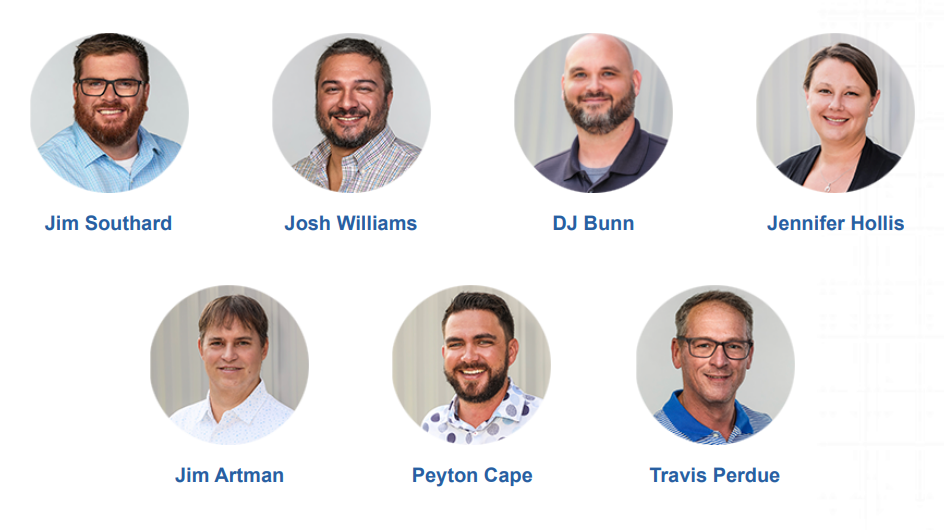
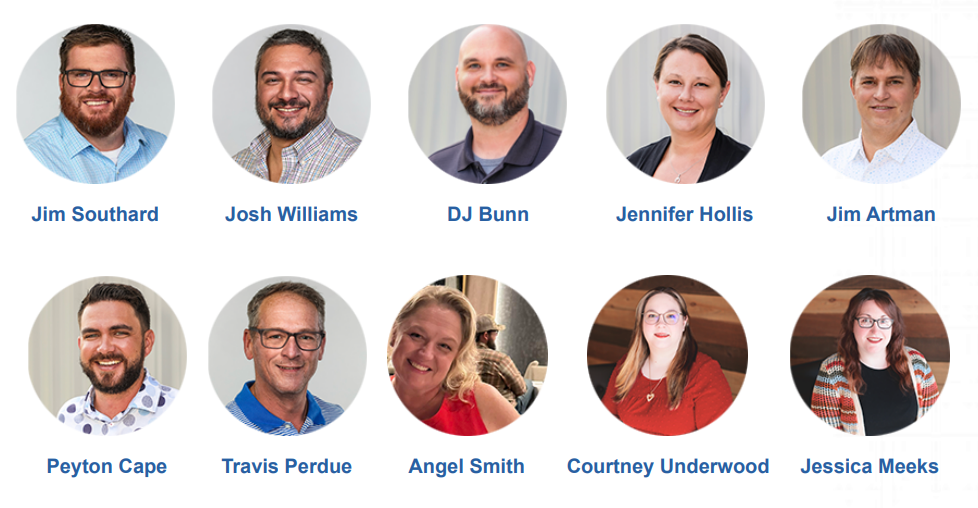
Autodesk cron update

diff --git a/Controllers/FrontendController.js b/Controllers/FrontendController.js
@@ -1370,7 +1370,7 @@ async QuotationPDFhtml(quotation_id,quotation_no,createdAt,phone_number,material
           <table width="100%" cellpadding="0" cellspacing="0" style="table-layout: fixed;">
                <tr>
                   <td colspan="2">
-                       <h4 style="color:#fff; font-size:16px; line-height: 1; font-weight: 600; margin-bottom: 6px; margin-top: 6px;">Quote Number #${quotation_no}</h4>
+                       <h4 style="color:#fff; font-size:16px; line-height: 1; font-weight: 600; margin-bottom: 6px; margin-top: 6px;">Quote Number #${quotation_no.slice(-6)}</h4>
                        <p style="margin-top: 5px; margin-bottom: 0px;color:#fff">Date: ${moment(createdAt).format('MM/DD/YY')} </p>
                   </td>
                </tr>
@@ -1496,7 +1496,7 @@ ${rooms.map((room, index) => `
               <table width="100%" cellpadding="0" cellspacing="0" style="table-layout: fixed;">
                    <tr>
                       <td colspan="2">
-                           <h4 style="color:#fff; font-size:16px; line-height: 1; font-weight: 600; margin-bottom: 6px; margin-top: 6px;">Quote Number #${quotation_no}</h4>
+                           <h4 style="color:#fff; font-size:16px; line-height: 1; font-weight: 600; margin-bottom: 6px; margin-top: 6px;">Quote Number #${quotation_no.slice(-6)}</h4>
                            <p style="margin-top: 5px; margin-bottom: 0px;color:#fff">Date: ${moment(createdAt).format('MM/DD/YY')} </p>
                       </td>
                    </tr>
@@ -1578,7 +1578,7 @@ ${room.hasUrinalScreens ? `
           <table width="100%" cellpadding="0" cellspacing="0" style="table-layout: fixed;">
                <tr>
                   <td colspan="2">
-                       <h4 style="color:#fff; font-size:16px; line-height: 1; font-weight: 600; margin-bottom: 6px; margin-top: 6px;">Quote Number #${quotation_no}</h4>
+                       <h4 style="color:#fff; font-size:16px; line-height: 1; font-weight: 600; margin-bottom: 6px; margin-top: 6px;">Quote Number #${quotation_no.slice(-6)}</h4>
                        <p style="margin-top: 5px; margin-bottom: 0px;color:#fff">Date: ${moment(createdAt).format('MM/DD/YY')} </p>
                   </td>
                </tr>
@@ -1711,30 +1711,22 @@ ${room.hasUrinalScreens ? `
                                   </div>
                               </td>
                                
-                              <!-- <td style="width: 15%;">
+                              <td style="width: 15%;">
                                   <div>
                                   <a href="mailto:cs@restroomstallsandall.com?subject=PDF Quote #${quotation_no}" style="text-decoration: none;display: inline-block;color:#285fa1;">
-                                      <img src="${process.env.URI}/uploads/images/Megan_Schroeder.png" alt="pic" style="margin-bottom: 10px;width:80px;height:80px;"/>
-                                      <h4 style="margin-top: 0px; color:#285fa1; margin-bottom: 5px;font-size:10px;white-space: nowrap;">Megan Watkins
+                                      <img src="${process.env.URI}/uploads/images/Jim_Artman.png" alt="pic" style="margin-bottom: 10px;width:80px;height:80px;"/>
+                                      <h4 style="margin-top: 0px; color:#285fa1; margin-bottom: 5px;font-size:10px;white-space: nowrap;">Jim Artman
                                       </h4>
                                   </a>
                                   </div>
-                              </td> -->
+                              </td>
                           </tr>
                           <tr>
                               <td style="width:100%;" colspan="6">
                                  <table width="100%" cellpadding="0" cellspacing="10" style="text-align: center; margin:0 auto;border:none;">
                                   <tr>
-                                   <td style="width:6.5%"></td> 
+                                   
                                   <td style="width: 15%;">
-                                    <div>
-                                    <a href="mailto:cs@restroomstallsandall.com?subject=PDF Quote #${quotation_no}" style="text-decoration: none;display: inline-block;color:#285fa1;">
-                                        <img src="${process.env.URI}/uploads/images/Jim_Artman.png" alt="pic" style="margin-bottom: 10px;width:80px;height:80px;"/>
-                                        <h4 style="margin-top: 0px; color:#285fa1; margin-bottom: 5px;font-size:10px;white-space: nowrap;">Jim Artman</h4>
-                                        </a>
-                                    </div>
-                                </td>
-                                <td style="width: 15%;">
                                   <div>
                                   <a href="mailto:cs@restroomstallsandall.com?subject=PDF Quote #${quotation_no}" style="text-decoration: none;display: inline-block;color:#285fa1;">
                                       <img src="${process.env.URI}/uploads/images/Peyton_Cape.png" alt="pic" style="margin-bottom: 10px;width:80px;height:80px;"/>
@@ -1742,36 +1734,44 @@ ${room.hasUrinalScreens ? `
                                       </h4>
                                       </a>
                                   </div>
+                                </td>
+                                <td style="width: 15%;">
+                                <div>
+                                <a href="mailto:cs@restroomstallsandall.com?subject=PDF Quote #${quotation_no}" style="text-decoration: none;display: inline-block;color:#285fa1;">
+                                    <img src="${process.env.URI}/uploads/images/Travis_Perdue.png" alt="pic" style="margin-bottom: 10px;width:80px;height:80px;"/>
+                                    <h4 style="margin-top: 0px; color:#285fa1; margin-bottom: 5px;font-size:10px;white-space: nowrap;">Travis Perdue
+                                    </h4>
+                                </a>
+                                </div>
                               </td>
-                              <!-- <td style="width: 15%;">
-                                  <div>
-                                  <a href="mailto:cs@restroomstallsandall.com?subject=PDF Quote #${quotation_no}" style="text-decoration: none;display: inline-block;color:#285fa1;">
-                                      <img src="${process.env.URI}/uploads/images/Rob_Watkins.png" alt="pic" style="margin-bottom: 10px;width:80px;height:80px;"/>
-                                      <h4 style="margin-top: 0px; color:#285fa1; margin-bottom: 5px;font-size:10px;white-space: nowrap;">Rob Watkins
-                                      </h4>
-                                  </a>
-                                  </div>
-                              </td> -->
-                     
                                     <td style="width: 15%;">
                                         <div>
                                         <a href="mailto:cs@restroomstallsandall.com?subject=PDF Quote #${quotation_no}" style="text-decoration: none;display: inline-block;color:#285fa1;">
-                                            <img src="${process.env.URI}/uploads/images/Travis_Perdue.png" alt="pic" style="margin-bottom: 10px;width:80px;height:80px;"/>
-                                            <h4 style="margin-top: 0px; color:#285fa1; margin-bottom: 5px;font-size:10px;white-space: nowrap;">Travis Perdue
+                                            <img src="${process.env.URI}/uploads/images/Angel_Smith.png" alt="pic" style="margin-bottom: 10px;width:80px;height:80px; border-redius:50%; overflow:hidden;"/>
+                                            <h4 style="margin-top: 0px; color:#285fa1; margin-bottom: 5px;font-size:10px;white-space: nowrap;">Angel Smith
                                             </h4>
                                         </a>
                                         </div>
                                     </td>
-                                   <!-- <td style="width: 15%;">
+                                   <td style="width: 15%;">
                                         <div>
                                         <a href="mailto:cs@restroomstallsandall.com?subject=PDF Quote #${quotation_no}" style="text-decoration: none;display: inline-block;color:#285fa1;">
-                                            <img src="${process.env.URI}/uploads/images/CJ_Cooper.png" alt="pic" style="margin-bottom: 10px;width:80px;height:80px;"/>
-                                            <h4 style="margin-top: 0px; color:#285fa1; margin-bottom: 5px;font-size:10px;white-space: nowrap;">CJ Cooper
+                                            <img src="${process.env.URI}/uploads/images/Courtney_Underwood.png" alt="pic" style="margin-bottom: 10px;width:80px;height:80px;"/>
+                                            <h4 style="margin-top: 0px; color:#285fa1; margin-bottom: 5px;font-size:10px;white-space: nowrap;">Courtney Underwood
                                             </h4>
                                         </a>
                                         </div>
-                                    </td> -->
-                                     <td style="width:6.5%"></td> 
+                                    </td>
+                                    <td style="width: 15%;">
+                                    <div>
+                                    <a href="mailto:cs@restroomstallsandall.com?subject=PDF Quote #${quotation_no}" style="text-decoration: none;display: inline-block;color:#285fa1;">
+                                        <img src="${process.env.URI}/uploads/images/Jessica_Meeks.png" alt="pic" style="margin-bottom: 10px;width:80px;height:80px;"/>
+                                        <h4 style="margin-top: 0px; color:#285fa1; margin-bottom: 5px;font-size:10px;white-space: nowrap;">Jessica Meeks
+                                        </h4>
+                                    </a>
+                                    </div>
+                                </td>
+                                    
                                   </tr>
                                  </table>
                               </td>     
@@ -2128,32 +2128,28 @@ async OrderPDFhtml(quotation_no,order_id,amount,phone_number,createdAt,materials
                                   </a>
                                   </div>
                               </td>
-                               
+                              <td style="width: 15%;">
+                              <div>
+                              <a href="mailto:cs@restroomstallsandall.com?subject=PDF Order #${order_id}" style="text-decoration: none;display: inline-block;color:#285fa1;">
+                                  <img src="${process.env.URI}/uploads/images/Jim_Artman.png" alt="pic" style="margin-bottom: 10px;width:80px;height:80px;"/>
+                                  <h4 style="margin-top: 0px; color:#285fa1; margin-bottom: 5px;font-size:10px;white-space: nowrap;">Jim Artman</h4>
+                              </a>
+                              </div>
+                          </td>
                           </tr>
                           <tr>
                               <td style="width:100%;" colspan="6">
                                  <table width="100%" cellpadding="0" cellspacing="10" style="text-align: center; margin:0 auto;border:none;">
                                   <tr>
-                                  <td style="width:6.5%"></td> 
                                     <td style="width: 15%;">
                                       <div>
                                       <a href="mailto:cs@restroomstallsandall.com?subject=PDF Order #${order_id}" style="text-decoration: none;display: inline-block;color:#285fa1;">
-                                          <img src="${process.env.URI}/uploads/images/Jim_Artman.png" alt="pic" style="margin-bottom: 10px;width:80px;height:80px;"/>
-                                          <h4 style="margin-top: 0px; color:#285fa1; margin-bottom: 5px;font-size:10px;white-space: nowrap;">Jim Artman</h4>
+                                          <img src="${process.env.URI}/uploads/images/Peyton_Cape.png" alt="pic" style="margin-bottom: 10px;width:80px;height:80px;"/>
+                                          <h4 style="margin-top: 0px; color:#285fa1; margin-bottom: 5px;font-size:10px;white-space: nowrap;">Peyton Cape</h4>
                                           </a>
                                       </div>
                                     </td>
                                     <td style="width: 15%;">
-                                    <div>
-                                    <a href="mailto:cs@restroomstallsandall.com?subject=PDF Order #${order_id}" style="text-decoration: none;display: inline-block;color:#285fa1;">
-                                        <img src="${process.env.URI}/uploads/images/Peyton_Cape.png" alt="pic" style="margin-bottom: 10px;width:80px;height:80px;"/>
-                                        <h4 style="margin-top: 0px; color:#285fa1; margin-bottom: 5px;font-size:10px;white-space: nowrap;">Peyton Cape
-                                        </h4>
-                                        </a>
-                                    </div>
-                                </td>
-                    
-                                <td style="width: 15%;">
                                     <div>
                                     <a href="mailto:cs@restroomstallsandall.com?subject=PDF Order #${order_id}" style="text-decoration: none;display: inline-block;color:#285fa1;">
                                         <img src="${process.env.URI}/uploads/images/Travis_Perdue.png" alt="pic" style="margin-bottom: 10px;width:80px;height:80px;"/>
@@ -2162,7 +2158,34 @@ async OrderPDFhtml(quotation_no,order_id,amount,phone_number,createdAt,materials
                                     </a>
                                     </div>
                                 </td>
-                                <td style="width:6.5%"></td> 
+                    
+                                <td style="width: 15%;">
+                                    <div>
+                                    <a href="mailto:cs@restroomstallsandall.com?subject=PDF Order #${order_id}" style="text-decoration: none;display: inline-block;color:#285fa1;">
+                                        <img src="${process.env.URI}/uploads/images/Angel_Smith.png" alt="pic" style="margin-bottom: 10px;width:80px;height:80px;"/>
+                                        <h4 style="margin-top: 0px; color:#285fa1; margin-bottom: 5px;font-size:10px;white-space: nowrap;">Angel Smith
+                                        </h4>
+                                    </a>
+                                    </div>
+                                </td>
+                                <td style="width: 15%;">
+                                <div>
+                                <a href="mailto:cs@restroomstallsandall.com?subject=PDF Order #${order_id}" style="text-decoration: none;display: inline-block;color:#285fa1;">
+                                    <img src="${process.env.URI}/uploads/images/Courtney_Underwood.png" alt="pic" style="margin-bottom: 10px;width:80px;height:80px;"/>
+                                    <h4 style="margin-top: 0px; color:#285fa1; margin-bottom: 5px;font-size:10px;white-space: nowrap;">Courtney Underwood
+                                    </h4>
+                                </a>
+                                </div>
+                            </td>
+                            <td style="width: 15%;">
+                            <div>
+                            <a href="mailto:cs@restroomstallsandall.com?subject=PDF Order #${order_id}" style="text-decoration: none;display: inline-block;color:#285fa1;">
+                                <img src="${process.env.URI}/uploads/images/Jessica_Meeks.png" alt="pic" style="margin-bottom: 10px;width:80px;height:80px;"/>
+                                <h4 style="margin-top: 0px; color:#285fa1; margin-bottom: 5px;font-size:10px;white-space: nowrap;">Jessica Meeks
+                                </h4>
+                            </a>
+                            </div>
+                        </td>
                                   </tr>
                                  </table>
                               </td>     

diff --git a/Crons/AutodekMailSendCron.js b/Crons/AutodekMailSendCron.js
@@ -22,7 +22,7 @@ mongoose.connect(MONGO_URI, { useNewUrlParser: true, useUnifiedTopology: true })
       try {
         // Convert last 1 day to EDT (optional, or keep UTC if API expects UTC)
         const end = moment().utc();
-        const start = moment(end).subtract(10, "hours");
+        const start = moment(end).subtract(1, "hours");
         const lastDayRange = `${start.format("YYYY-MM-DDTHH:mm:ss.SSS[Z]")}..${end.format("YYYY-MM-DDTHH:mm:ss.SSS[Z]")}`;
 
       console.log(lastDayRange);
@@ -524,13 +524,20 @@ async function calculateSmartBidScore(bid) {
 
   // Distance (assume bid.distance in miles if available)
   if (bid.location) {
-    const bidDistance = await getDistanceInMiles(bid.location.zip, process.env.SOURCE_ZIP_CODE); // example
+    let bidDistance = await getDistanceInMiles(bid.location.zip, process.env.SOURCE_ZIP_CODE); // example
+    // Round up to nearest integer
+    bidDistance = Math.ceil(bidDistance);
     const distanceArray = weights.distance;
   
-    const matchedRange = distanceArray.find(range => 
-      (range.max === null && bidDistance > range.min) ||
-      (bidDistance >= range.min && bidDistance < range.max)
+    // const matchedRange = distanceArray.find(range => 
+    //   (range.max === null && bidDistance > range.min) ||
+    //   (bidDistance >= range.min && bidDistance < range.max)
+    // );
+    const matchedRange = distanceArray.find(range =>
+      (range.max === null && bidDistance >= range.min) ||
+      (bidDistance >= range.min && bidDistance <= range.max)
     );
+    
   
     if (matchedRange) {
      // console.log("location", matchedRange.percentage);
@@ -570,7 +577,7 @@ if (demoDeadline) {
 //  console.log("diffDays:", diffDays);
 
  const matchedTimeline = weights.projectTimeline.find(t => 
-   (t.max === null && diffDays > t.min) ||
+   (t.max === null && diffDays >= t.min) ||
    (diffDays >= t.min && diffDays <= t.max)
  );
 
@@ -584,13 +591,16 @@ if (demoDeadline) {
 
   // ProjectSize
   if (bid.projectSize) {
+    // Round up project size to nearest integer
+    const roundedSize = Math.ceil(bid.projectSize);
+  
     const matchedSize = weights.projectSize.find(range => 
-      (range.max === null && bid.projectSize > range.min) ||
-      (bid.projectSize >= range.min && bid.projectSize <= range.max)
+      (range.max === null && roundedSize >= range.min) ||          // last range
+      (roundedSize >= range.min && roundedSize <= range.max)      // other ranges
     );
   
     if (matchedSize) {
-     // console.log("project size", matchedSize.percentage);
+      // console.log("project size", matchedSize.percentage);
       score += matchedSize.percentage;
     }
   }
@@ -709,6 +719,7 @@ async function upsertHubspotLead(bid,contactData){
             hubspot_owner_id:process.env.HUBSPOT_OWNER_ID,
             hs_lead_type:"NEW_BUSINESS",
             hs_lead_name: bid.name,
+            company_name:`${bid.client?.company?.name}`,
             due_at: bid.dueAt,
             project_size: bid.projectSize,
             location: bid.location?.complete,

diff --git a/Controllers/BidsController.js b/Controllers/BidsController.js
@@ -106,6 +106,8 @@ class BidsController extends Controller {
           const Model = Models[this.model_name];
           const exportHeader = Model.schema.exportFields;
           const filename = req.query.filename || "Report";
+          var sort_field = req.query.sort || "_id";
+          var sort_order = req.query.sort_order || "desc";
           const month = req.query.month || null;
           const search = req.query.search || ""; // ✅ search
           const where_clause = req.query.where_clause
@@ -114,6 +116,7 @@ class BidsController extends Controller {
       
           const where_fields = where_clause.where_fields || [];
           const where_values = where_clause.where_values || [];
+          sort_order = sort_order == "asc" ? 1 : -1;
       
           // 🔍 Build search query
           const fields = Model.schema.customFields;
@@ -152,7 +155,7 @@ class BidsController extends Controller {
         //  console.log("Final Query for CSV export:", JSON.stringify(finalQuery, null, 2));
       
           // Fetch data
-          const records = await Model.find(finalQuery).sort({ _id: -1 }).lean().exec();
+          const records = await Model.find(finalQuery).sort({ [sort_field]: sort_order }).lean().exec();
       
           // Generate CSV
           const headers = Object.keys(exportHeader).map(k => exportHeader[k].displayName);
